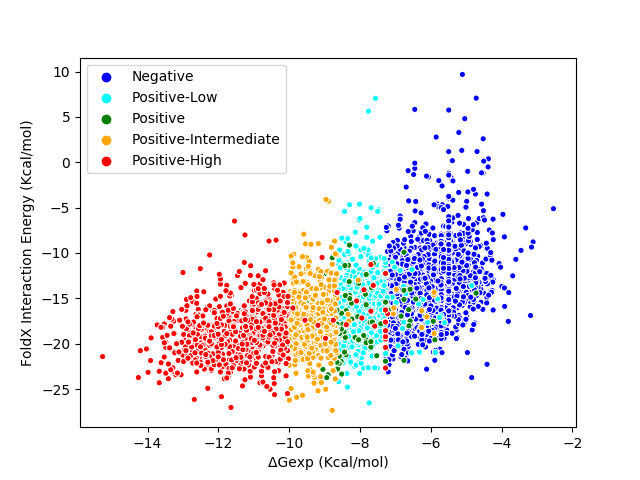
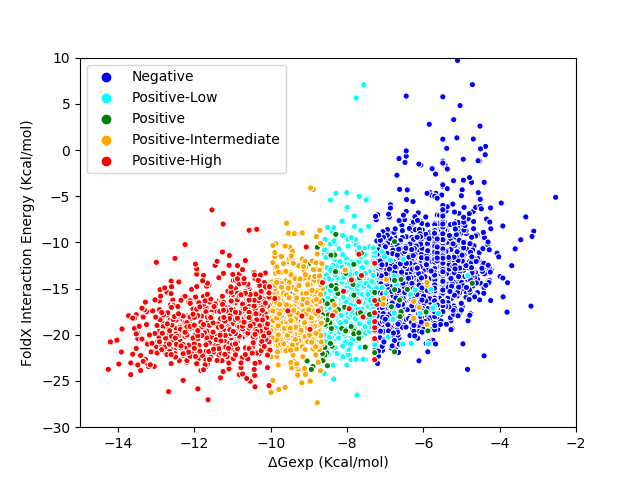
Major changes in script, new figures.

diff --git a/peptide_ic50_energies.py b/peptide_ic50_energies.py
@@ -9,6 +9,7 @@ inputFile = "HLA-A-0201_assays.csv"
 outputFile = "9-lenght-IC50-nM.txt"
 energiesFile = "energies_{}".format(outputFile)
 foldxIE = "/home/pepamengual/neoantigenos/big_benchmark/foldxIE"
+threshold = 15
 
 polarity = {'A':'0.83','R':'0.83','N':'0.09','D':'0.64','C':'1.48','E':'0.65','Q':'0','G':'0.1','H':'1.1','I':'3.07','L':'2.52','K':'1.6','M':'1.4','F':'2.75','P':'2.7','S':'0.14','T':'0.54','W':'0.31','Y':'2.97','V':'1.79'}
 heavyatoms = {'A':'6','R':'12','N':'9','D':'9','C':'7','E':'10','Q':'10','G':'5','H':'11','I':'9','L':'9','K':'10','M':'9','F':'12','P':'8','S':'7','T':'8','W':'15','Y':'13','V':'9'}
@@ -16,6 +17,8 @@ heavyatoms = {'A':'6','R':'12','N':'9','D':'9','C':'7','E':'10','Q':'10','G':'5'
 #colors = ['blue','cyan','green','orange','red']
 order = ["Negative", "Positive-Low", "Positive-Intermediate", "Positive-High"]
 colors = ['blue','cyan','orange','red']
+#order = ["Positive"]
+#colors = ["green"]
 
 polarityClassifier = {'A':'A','R':'P','N':'P','D':'P','C':'A','E':'P','Q':'P','G':'A','H':'P','I':'A','L':'A','K':'P','M':'A','F':'A','P':'A','S':'P','T':'P','W':'A','Y':'A','V':'A'}
 
@@ -93,25 +96,115 @@ with open(energiesFile, "w") as f:
     for k in l:
         f.write(k + '\n')
 
-di = {"x": [], "y": [], "p": [], "eCP": [], "eCPN": [], "pKey": [], "pKeyN": []}
-di = {"x": [], "y": [], "p": []}
+di = {"x": [], "y": [], "p": []} #FoldX Binding energies lower than -15Kcal/mol
+di2 = {"x": [], "y": [], "p": []} #FoldX Binding energies higher than -15Kcal/mol
+di3 = {"x": [], "y": [], "p": []} #FoldX Binding energies lower than -15Kcal/mol AND Apolar at position 2 or 9
+di4 = {"x": [], "y": [], "p": []} #FoldX Binding energies lower than -15Kcal/mol AND any Apolar at position 2 and 9
+di5 = {"x": [], "y": [], "p": []} #Double polar
+di6 = {"x": [], "y": [], "p": []} #Double apolar
+di7 = {"x": [], "y": [], "p": []} #Some is polar
+
+ed = {} #energydiscarted
+ea = {} #energyaccepted
+dp = {} #doublepolar
+da = {} #doubleapolar
+sp = {} #somepolar
+
+countdpNoHigh = 0
+countdpHigh = 0
+countdpNegative = 0
+countdpPositive = 0
 
 for num, name in enumerate(order):
     with open(energiesFile, "r") as f:
         next(f)
         for line in f:
             h_line = line.split(" ")
+            peptide = h_line[0]
             qualitativeValue = h_line[1]
             experimentalEnergy = float(h_line[4])
             foldXBindingEnergy = float(h_line[5])
             if qualitativeValue == name:
-                di["p"].append(qualitativeValue)
-                di["x"].append(experimentalEnergy)
-                di["y"].append(foldXBindingEnergy)
+                if foldXBindingEnergy <= -threshold:
+                    if not qualitativeValue in ea:
+                        ea[qualitativeValue] = 1
+                    else:
+                        ea[qualitativeValue] += 1
+                    di["p"].append(qualitativeValue)
+                    di["x"].append(experimentalEnergy)
+                    di["y"].append(foldXBindingEnergy)
+                    if polarityClassifier[peptide[1]] == "P":
+                        di3["p"].append(qualitativeValue)
+                        di3["x"].append(experimentalEnergy)
+                        di3["y"].append(foldXBindingEnergy)
+                        if polarityClassifier[peptide[8]] == "P": # double polar
+                            di5["p"].append(qualitativeValue)
+                            di5["x"].append(experimentalEnergy)
+                            di5["y"].append(foldXBindingEnergy)
+                            if not qualitativeValue in dp:
+                                dp[qualitativeValue] = 1
+                            else:
+                                dp[qualitativeValue] += 1
+                    if polarityClassifier[peptide[1]] == "A":
+                        di4["p"].append(qualitativeValue)
+                        di4["x"].append(experimentalEnergy)
+                        di4["y"].append(foldXBindingEnergy)
+                        if polarityClassifier[peptide[8]] == "A": #double apolar
+                            di6["p"].append(qualitativeValue)
+                            di6["x"].append(experimentalEnergy)
+                            di6["y"].append(foldXBindingEnergy)
+                            if not qualitativeValue in da:
+                                da[qualitativeValue] = 1
+                            else:
+                                da[qualitativeValue] += 1
+                            if qualitativeValue == "Positive-High":
+                                countdpHigh += 1
+                            else:
+                                countdpNoHigh += 1
+                            if qualitativeValue == "Negative":
+                                countdpNegative += 1
+                            if "Positive" in qualitativeValue:
+                                countdpPositive += 1
+                    if (polarityClassifier[peptide[1]] == "P") or (polarityClassifier[peptide[8]] == "P"): #some polar
+                        di7["p"].append(qualitativeValue)
+                        di7["x"].append(experimentalEnergy)
+                        di7["y"].append(foldXBindingEnergy)
+                        if not qualitativeValue in sp:
+                            sp[qualitativeValue] = 1
+                        else:
+                            sp[qualitativeValue] += 1
+                else:
+                    di2["p"].append(qualitativeValue)
+                    di2["x"].append(experimentalEnergy)
+                    di2["y"].append(foldXBindingEnergy)
+                    if not qualitativeValue in ed:
+                        ed[qualitativeValue] = 1
+                    else:
+                        ed[qualitativeValue] += 1
 
-ax = sns.scatterplot(x="x", y="y", hue="p", s=20, palette=colors, data=di)
-ax.set(xlabel="ΔGexp (Kcal/mol)", ylabel="FoldX Interaction Energy (Kcal/mol)")
-#plt.savefig("scatter_9-lenght_exp_foldx_positive.png")
+print("Threshold: ", threshold)
+print("Energy Accepted: ", ea)
+print("Energy Discarted: ", ed)
+print("Double Polar: ", dp)
+print("Double Apolar: ", da)
+print("Some Polar: ", sp)
+print("Double Polar High Ratio: ", round(countdpHigh/countdpNoHigh, 3))
+print("Positive / Negative Ratio: ", round(countdpPositive/countdpNegative, 3))
+
+#sns.scatterplot(x="x", y="y", hue="p", s=20, palette=colors, data=di, alpha=1)
+#sns.scatterplot(x="x", y="y", hue="p", s=20, palette=colors, data=di2, alpha=0.1, legend=False)
+
+sns.scatterplot(x="x", y="y", hue="p", s=20, palette=colors, data=di6, alpha=1)
+#sns.scatterplot(x="x", y="y", hue="p", s=20, palette=colors, data=di4, alpha=1, legend=False)
+sns.scatterplot(x="x", y="y", hue="p", s=20, palette=colors, data=di2, alpha=0.1, legend=False)
+
+
+plt.plot([-threshold, -2], [-threshold, -threshold], linewidth=2, color="black")
+plt.xlabel("ΔGexp (Kcal/mol)")
+plt.ylabel("FoldX Interaction Energy (Kcal/mol)")
+plt.ylim(-30,10)
+plt.xlim(-15,-2)
+plt.savefig("scatter_9-lenght_exp_foldx_doubleapolar_{}.png".format(threshold))
 plt.show()
 
 
